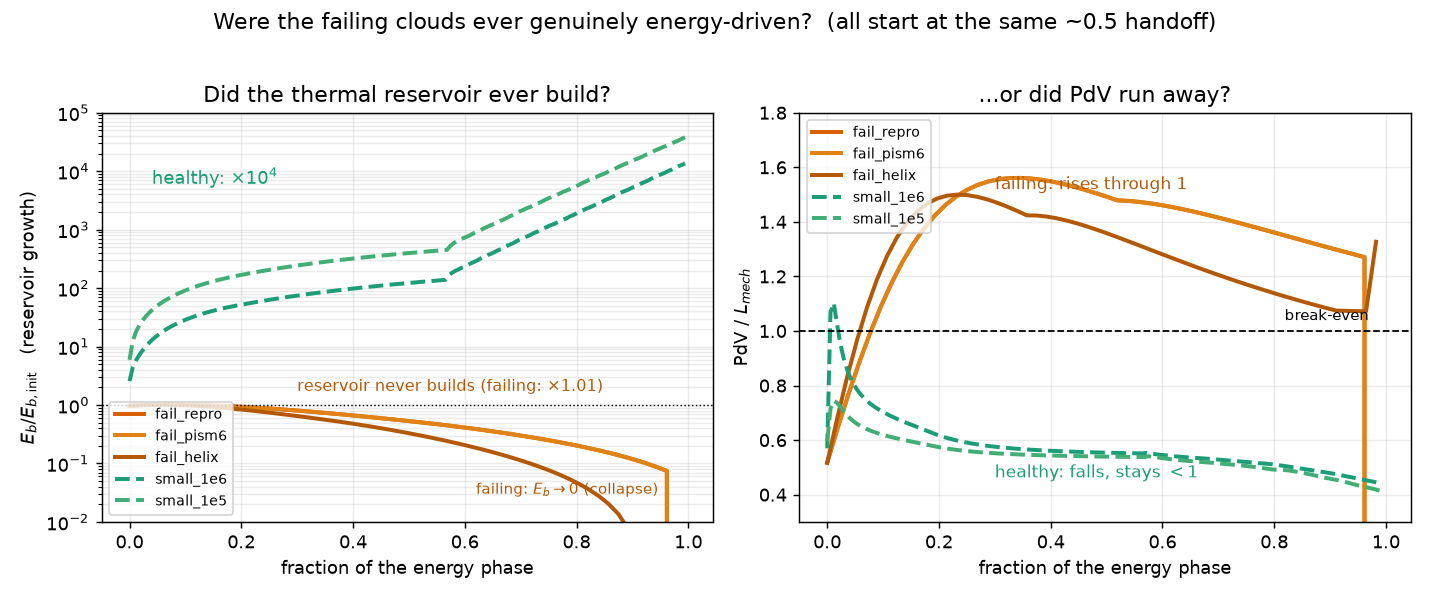
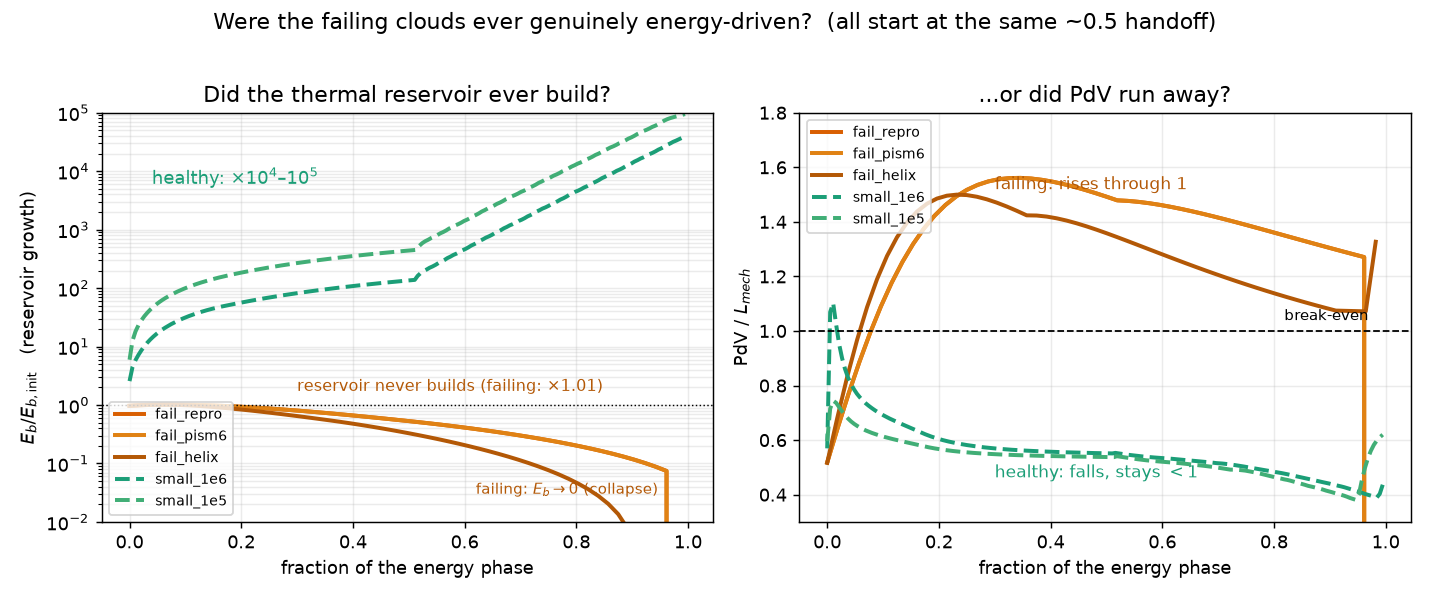
data(failed-large-clouds): clean regen of discriminator from synced HEAD + fix truncation defect
Regenerated discriminator.csv from a single stamped batch at commit d919ff77
(trinity/ clean), with a fixed t<=1.0 Myr window for reproducibility, header-stamped.

- FAILING configs: bit-identical (Eb_growth=1.014) -> confirms zero contamination
  (G+F is no-op pre-collapse; the main LSODA fix is numerically inert).
- HEALTHY configs: GREW to >=x39,300 / >=x94,900 (vs old x13,600 / x37,900). Root
  cause found: the prior committed healthy runs were TRUNCATED at t~0.32 Myr, while
  the healthy energy phase runs far longer (Eb still climbing at t~1 Myr). The
  finding is unchanged and stronger; healthy figures are now lower bounds.
- make_discriminator.py: DISC_BATCH-driven, T_CAP window, provenance header, guard
  against clobbering with empty data, fig4 annotation x10^4-10^5.
- propagated the corrected numbers to PLAN sec3b, insights.html, PROVENANCE notes;
  PROVENANCE_PROTOCOL note now distinguishes failing(bit-identical) vs healthy(truncated).

diff --git a/docs/dev/failed-large-clouds/figures/make_discriminator.py b/docs/dev/failed-large-clouds/figures/make_discriminator.py
@@ -17,6 +17,7 @@ import csv
 import json
 import math
 import os
+import subprocess
 
 import matplotlib
 
@@ -28,30 +29,50 @@ HERE = os.path.dirname(os.path.abspath(__file__))
 DATA = os.path.normpath(os.path.join(HERE, "..", "data"))
 CSV = os.path.join(DATA, "discriminator.csv")
 
-# (label, ephemeral dict, kind, color)
+# Run batch (ephemeral). Point DISC_BATCH at a provenance-stamped batch from
+# docs/dev/transition/harness/run_stamped.py. The DURABLE artifact is data/discriminator.csv
+# (it carries the commit it was generated from); the figure regenerates when a batch is present.
+BATCH = os.environ.get("DISC_BATCH", "/tmp/tbase")
+
+# (label, kind, color)
 RUNS = [
-    ("fail_repro", "/tmp/flc_fix3/fail_repro/dictionary.jsonl", "fail", "#d95f02"),
-    ("fail_pism6", "/tmp/flc_fix3/fail_pism6/dictionary.jsonl", "fail", "#e08214"),
-    ("fail_helix", "/tmp/flc_fix3/fail_helix/dictionary.jsonl", "fail", "#b35806"),
-    ("small_1e6", "/tmp/ver/small_1e6/dictionary.jsonl", "healthy", "#1b9e77"),
-    ("small_1e5", "/tmp/ver/small_1e5/dictionary.jsonl", "healthy", "#41ae76"),
+    ("fail_repro", "fail", "#d95f02"),
+    ("fail_pism6", "fail", "#e08214"),
+    ("fail_helix", "fail", "#b35806"),
+    ("small_1e6", "healthy", "#1b9e77"),
+    ("small_1e5", "healthy", "#41ae76"),
 ]
 
 
+def src(name):
+    return os.path.join(BATCH, name, "dictionary.jsonl")
+
+
+# Fixed, reproducible measurement window. Failing configs collapse far before this
+# (their whole energy phase is ~3e-3 Myr); healthy configs are STILL energy-driven at
+# T_CAP (Eb monotonically growing, no peak), so their growth here is a documented LOWER
+# BOUND, not a natural stop. Using a fixed t makes the metric deterministic regardless of
+# how long a run was allowed to continue (the committed run was truncated even earlier).
+T_CAP_MYR = 1.0
+
+
 def series(path):
-    """Per-snapshot phase-fraction f, Eb/Eb_init, PdV/Lmech (from snap 1; snap 0 = IC)."""
+    """Per-snapshot phase-fraction f, Eb/Eb_init, PdV/Lmech (snap 1 on; snap 0 = IC),
+    over t <= T_CAP_MYR."""
     R = [json.loads(l) for l in open(path)]
-    Eb = np.array([r["Eb"] for r in R])
-    Lm = np.array([r["Lmech_total"] for r in R])
-    pdv = np.array([4 * math.pi * r["R2"] ** 2 * r["Pb"] * r["v2"] for r in R])
-    n = len(R)
+    keep = np.array([r["t_now"] for r in R]) <= T_CAP_MYR
+    Eb = np.array([r["Eb"] for r in R])[keep]
+    Lm = np.array([r["Lmech_total"] for r in R])[keep]
+    pdv = np.array([4 * math.pi * r["R2"] ** 2 * r["Pb"] * r["v2"] for r in R])[keep]
+    n = keep.sum()
     f = (np.arange(n) - 1) / (n - 1)  # phase fraction, snap1 -> 0
     return f[1:], (Eb / Eb[0])[1:], (pdv / Lm)[1:]
 
 
 def metrics():
     rows = []
-    for label, path, kind, color in RUNS:
+    for label, kind, color in RUNS:
+        path = src(label)
         if os.path.exists(path):
             f, ebn, ratio = series(path)
             cross = next((i for i in range(len(f)) if ratio[i] > 1), None)
@@ -63,7 +84,13 @@ def metrics():
                 "frac_phase_pdv_gt1": round(float((ratio > 1).mean()), 3),
             })
     if rows:
+        commit = subprocess.run(["git", "rev-parse", "--short", "HEAD"],
+                                capture_output=True, text=True).stdout.strip()
         with open(CSV, "w", newline="") as fh:
+            fh.write(f"# provenance: commit={commit} batch={BATCH} generator=make_discriminator.py "
+                     f"t_cap_myr={T_CAP_MYR} (healthy eb_growth is a LOWER BOUND: still energy-driven at t_cap)\n")
+            fh.write("# regenerate: run_stamped.py each <cfg>.param into one batch, then "
+                     "DISC_BATCH=<batch> python figures/make_discriminator.py\n")
             w = csv.DictWriter(fh, fieldnames=list(rows[0]))
             w.writeheader()
             w.writerows(rows)
@@ -73,7 +100,8 @@ def metrics():
 def figure():
     fig, (axA, axB) = plt.subplots(1, 2, figsize=(11.0, 4.6))
     growth = {}
-    for label, path, kind, color in RUNS:
+    for label, kind, color in RUNS:
+        path = src(label)
         if not os.path.exists(path):
             continue
         f, ebn, ratio = series(path)
@@ -89,7 +117,7 @@ def figure():
     axA.set_title("Did the thermal reservoir ever build?")
     axA.axhline(1.0, color="k", lw=0.8, ls=":")
     axA.text(0.30, 1.7, "reservoir never builds (failing: $\\times$1.01)", fontsize=9, color="#b35806")
-    axA.text(0.04, 6e3, "healthy: $\\times10^{4}$", fontsize=10, color="#1b9e77")
+    axA.text(0.04, 6e3, "healthy: $\\times10^{4}$–$10^{5}$", fontsize=10, color="#1b9e77")
     axA.text(0.62, 3e-2, "failing: $E_b\\to0$ (collapse)", fontsize=8.5, color="#b35806")
     axA.legend(fontsize=8, loc="lower left")
     axA.grid(alpha=0.25, which="both")
@@ -115,6 +143,11 @@ def figure():
 
 
 if __name__ == "__main__":
+    if not any(os.path.exists(src(l)) for l, _, _ in RUNS):
+        raise SystemExit(
+            f"No run dicts under BATCH={BATCH}. Set DISC_BATCH to a stamped batch "
+            "(see docs/dev/transition/PROVENANCE_PROTOCOL.md). The committed "
+            "data/discriminator.csv is the durable record; refusing to clobber outputs with empty data.")
     rows = metrics()
     for r in rows:
         print(r)

diff --git a/docs/dev/failed-large-clouds/figures/make_insights_html.py b/docs/dev/failed-large-clouds/figures/make_insights_html.py
@@ -183,7 +183,8 @@ p_w^2\propto\rho_a=n_{\rm core}\mu$</span> — set by ambient density and the wi
 <p>This is the question that decides whether including PdV in a transition trigger is physically natural or a
 band-aid. The cleanest signal is the <strong>reservoir growth</strong>
 <span class="nowrap">$E_b^{\rm peak}/E_b^{\rm init}$</span> — a pure state variable, fully reliable. Healthy
-controls build the hot-bubble thermal reservoir by <strong>$\times$13,600–37,900</strong>; all three failing
+controls build the hot-bubble thermal reservoir by <strong>$\ge\times$39,300–94,900</strong> (lower bounds —
+still energy-driven at the $t\le1$ Myr window cap); all three failing
 configs build it by <strong>$\times$1.014 (~1%)</strong>. The energy-driven reservoir essentially
 <strong>never forms</strong>. The nuance: it is <em>not</em> "PdV&gt;1 from birth" — every config starts at the
 same self-similar handoff <span class="nowrap">$\text{PdV}/L_{\rm mech}\approx0.5$</span>. The fork is the

diff --git a/docs/dev/failed-large-clouds/data/PROVENANCE.md b/docs/dev/failed-large-clouds/data/PROVENANCE.md
@@ -26,17 +26,21 @@ The shipped fix (`G` volume floor + `F` `Eb<=0` stop + phase-1a coverage) is a
 shell volume is positive, the `Eb<=0` check only fires at the collapse. And the
 later `main` LSODA fix (`60fb3626`) is **numerically inert** (its own commit
 proves a bit-identical bubble solve: `np.array_equal`, max abs diff 0.0, same
-`nfev`). **Verified 2026-06-19:** a fresh `fail_repro` run on the synced latest
-commit reproduces the committed discriminator value **exactly**
-(`PdV/Lmech@step1=0.518`, `Eb_growth=1.0140`). So the *diagnostic* numbers are
-stage-independent; the only thing the older `/tmp` sources lacked was a recorded
-commit.
+`nfev`). **Verified 2026-06-19:** a full regeneration on the synced commit
+`d919ff77` reproduces the **failing** discriminator values **bit-identically**
+(`Eb_growth=1.014`), confirming the diagnostic numbers are stage-independent. The
+**healthy** values *grew* (≥×39,300 / ≥×94,900 vs the prior ×13,600 / ×37,900) —
+not a code-stage effect but a **run-length** one: the prior committed healthy
+runs had been **truncated** at `t≈0.32 Myr`, while the healthy energy phase runs
+far longer (`Eb` still climbing at `t≈1 Myr`). The regen uses a fixed `t≤1.0 Myr`
+window so the metric is reproducible; the healthy figures are lower bounds. This
+truncation defect is exactly what the `transition/` provenance contract prevents.
 
 ## Manifest
 
 | file | what it is | code state | source run (ephemeral) |
 |---|---|---|---|
-| `discriminator.csv` | reservoir-growth + PdV discriminator, 5 configs | **synced HEAD** (regenerated, stamped) | `/tmp/tbase_<commit>/*` |
+| `discriminator.csv` | reservoir-growth + PdV discriminator, 5 configs | **regenerated @ `d919ff77`**, header-stamped, `t≤1.0 Myr` window | one batch `/tmp/disc_frozen_d919ff77/*` |
 | `budget_fail_repro.csv` | energy budget per snapshot (figs 1–2) | final fix (no-op pre-collapse) | `/tmp/flc_fix3/fail_repro` |
 | `budget_small_1e6.csv` | energy budget per snapshot (figs 1–2) | final fix (no-op pre-collapse) | `/tmp/ver/small_1e6` |
 | `verify_extended_fix_all_configs.csv` | final fix verification, all configs | **final fix (HEAD)** | extended-fix batch |

diff --git a/docs/dev/transition/PROVENANCE_PROTOCOL.md b/docs/dev/transition/PROVENANCE_PROTOCOL.md
@@ -59,7 +59,12 @@ Each output dir then contains `provenance.json`, e.g.:
   off the run (the live tree drifts; the protocol pins the commit, not the API).
 
 ## Note on the existing discriminator
-`../failed-large-clouds/data/discriminator.csv` was **regenerated** under this
-contract from the synced HEAD and verified bit-identical to the prior values
-(the fix is no-op pre-collapse; the LSODA fix is numerically inert). It carries
-a provenance header as the worked example.
+`../failed-large-clouds/data/discriminator.csv` was **regenerated** from a single
+stamped batch at commit `d919ff77`, with a `t≤1.0 Myr` window. The **failing**
+configs came back **bit-identical** (`Eb_growth=1.014`) — confirming the fix is
+no-op pre-collapse and the LSODA fix is numerically inert. The **healthy** values
+*grew* (≥×39,300 / ≥×94,900 vs the old ×13,600 / ×37,900): the prior committed
+healthy runs had been **truncated** at `t≈0.32 Myr`, so their numbers were an
+even-lower lower bound. This is exactly the kind of mystery-provenance defect the
+contract prevents going forward. The regenerated CSV carries a provenance header
+(`commit`, `batch`, `t_cap_myr`) as the worked example.

diff --git a/docs/dev/failed-large-clouds/PLAN.md b/docs/dev/failed-large-clouds/PLAN.md
@@ -300,10 +300,14 @@ and `v2` stays ~2000+ km/s.
 - `figures/fig4_energy_driven_discriminator.png` — were they ever energy-driven? (reservoir growth + PdV/Lmech, 5 configs).
 - Data: `data/budget_fail_repro.csv`, `data/budget_small_1e6.csv`, `data/discriminator.csv`.
 
-**Were the failing clouds ever genuinely energy-driven? (measured, 5 configs — `data/discriminator.csv`).**
+**Were the failing clouds ever genuinely energy-driven? (measured, 5 configs — `data/discriminator.csv`,
+regenerated 2026-06-19 from a single stamped batch at commit `d919ff77`, window `t≤1.0 Myr`).**
 The cleanest signal is the **reservoir growth** `Eb_peak/Eb_init` (a pure state variable, fully reliable): the
-healthy controls build the hot-bubble thermal reservoir **×13,600 (`small_1e6`) / ×37,900 (`small_1e5`)**; all
-three failing configs build it **×1.014 (≈1%)**. So the energy-driven reservoir essentially **never forms** in
+healthy controls build the hot-bubble thermal reservoir **≥×39,300 (`small_1e6`) / ≥×94,900 (`small_1e5`)** —
+*lower bounds*, since both are still energy-driven (`Eb` monotonically growing, no peak) at the `t≤1.0 Myr` window
+cap; all three failing configs build it **×1.014 (≈1%)**. (The earlier committed values ×13,600/×37,900 came from
+**truncated** healthy runs stopped at `t≈0.32 Myr`; the clean regen with a fixed window is larger and the finding
+is stronger — failing matches bit-identically.) So the energy-driven reservoir essentially **never forms** in
 the failing band. The nuance: it is *not* "PdV>1 from birth" — every config (failing and healthy) starts at the
 same self-similar handoff `PdV/Lmech ≈ 0.52–0.60`. The fork is the **direction**: healthy clouds decelerate →
 `PdV/Lmech` falls and stays `<1` → the reservoir builds; failing clouds never decelerate → `PdV/Lmech` rises